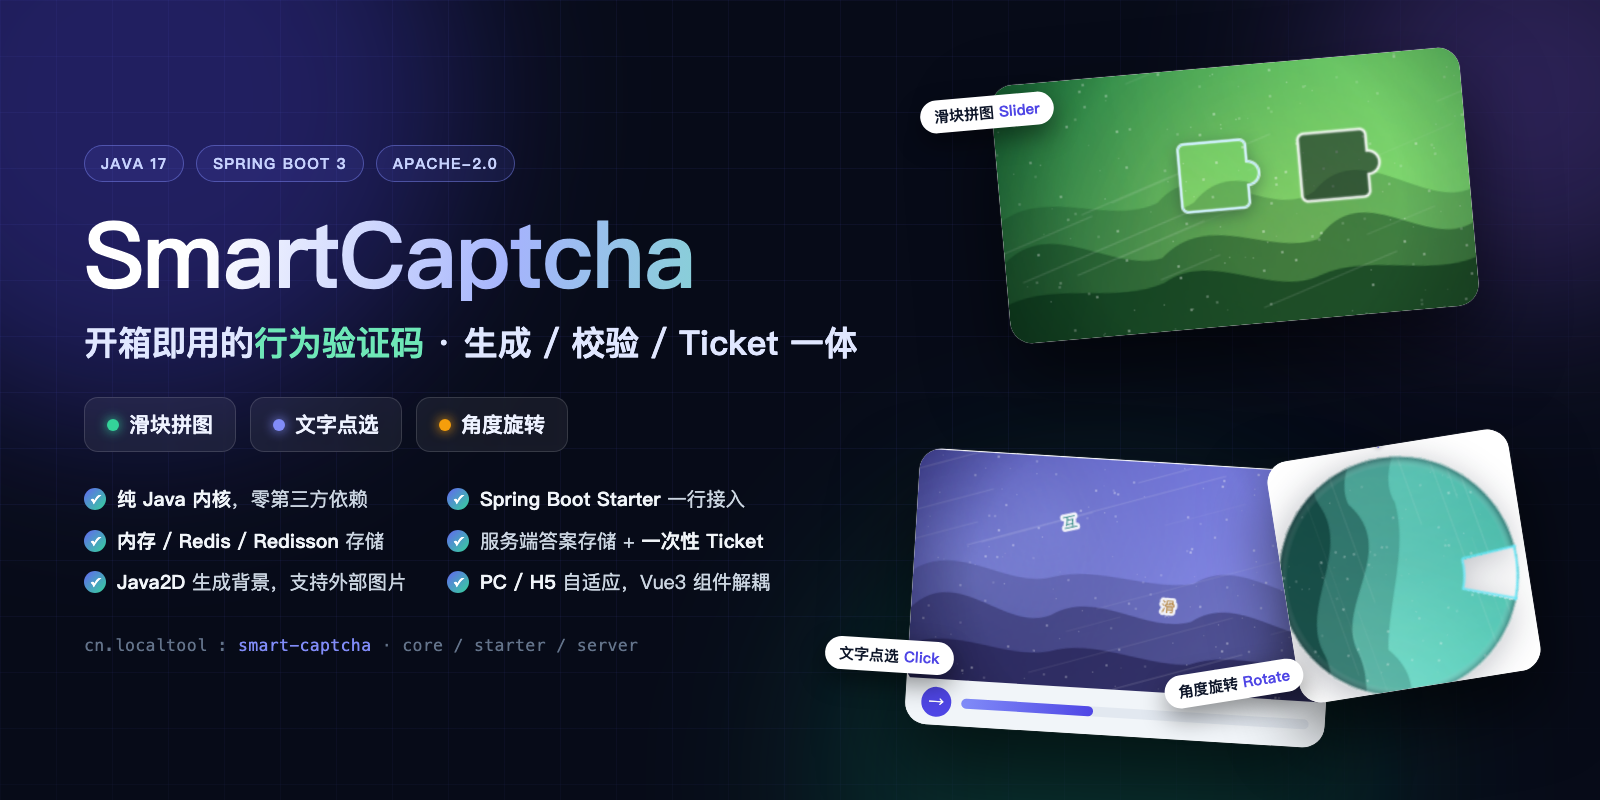
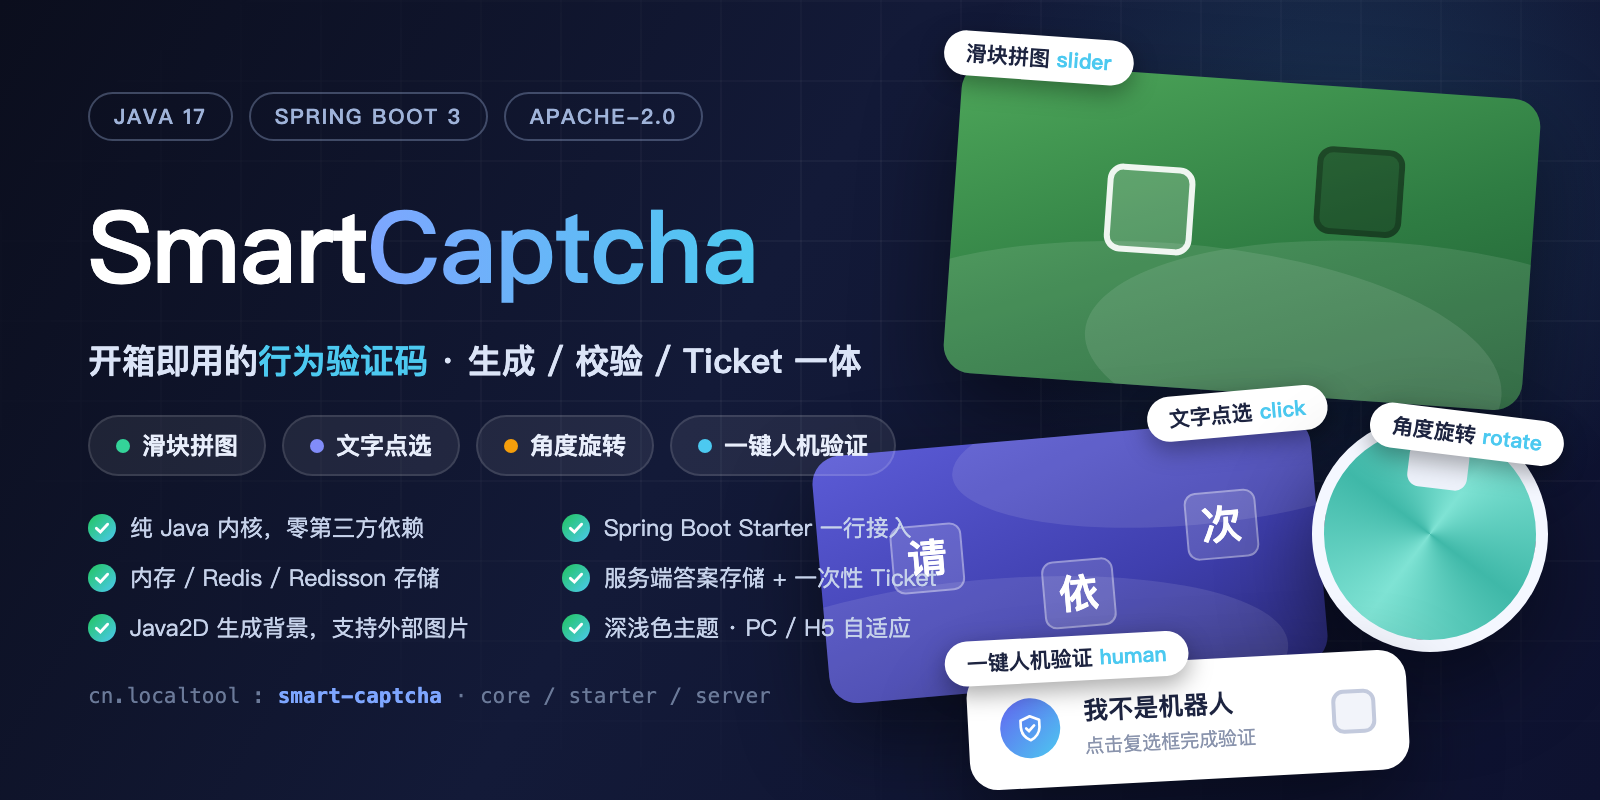
docs(readme): 更新文档以支持一键人机验证和深色主题
- 在英文和中文 README 中加入了一键人机验证（human check）类型描述和示例
- 增加了一键人机验证的图片示例和说明
- 新增深浅色主题支持说明和深色模式截图
- 更新示例部分，调整为四种验证码类型展示
- 升级版本号至 1.11.0，更新启动命令和依赖版本号
- 测试用例数量由137增加到139，增加一键人机验证相关测试
- 修正依赖安装说明，更新版本号至1.11.0并增强说明

diff --git a/README.md b/README.md
@@ -4,7 +4,7 @@
 
 [![License: Apache 2.0](https://img.shields.io/badge/license-Apache%202.0-blue.svg)](LICENSE)
 
-![SmartCaptcha — drop-in behavior captcha for Java (slider / click / rotate)](docs/images/banner-2x1-en.png)
+![SmartCaptcha — drop-in behavior captcha for Java (slider / click / rotate / human check)](docs/images/banner-2x1-en.png)
 
 A complete behavior-captcha implementation: **Vue 3 component** (slider puzzle / click-the-words / rotate-the-disc / one-click human check) plus a **three-module Java backend** that renders the images, checks the answers and issues one-time tickets.
 
@@ -27,19 +27,24 @@ The Vue component is **UI-only** — it never calls an API by itself. It asks th
 - **Configurable or random** — pin one type, or let the server (`type=auto`) or the component (`types` pool) pick randomly.
 - **Backgrounds, four ways** — server-side procedural art (zero assets), an external image array supplied by the page, or server-side sources: a folder, individual files, remote URLs or classpath resources.
 - **PC + mobile H5** — Pointer Events for mouse/touch parity, percentage-based layout, no fixed pixel math, responsive panel.
+- **Light / dark / auto theme** — `theme` follows the system color scheme by default or pins `light` / `dark`; every color is a `--bc-*` CSS variable, so brand theming is one override away.
 - **Server-side answers** — correct position/angle never leaves the backend; `id + token` pair, 3 attempts max, one-time ticket after success.
 - **Pluggable on both ends** — add a captcha type by implementing `CaptchaGenerator`, change the session storage by implementing `CaptchaStore` (six methods).
 
 ## Examples
 
-The three image widgets, captured live from the demo page (backgrounds are generated procedurally by the backend — no image assets needed):
+All four widget types, captured live from the demo page (image backgrounds are generated procedurally by the backend — no image assets needed):
 
-| Slider puzzle | Click the words | Rotate the disc |
-| :---: | :---: | :---: |
-| ![Slider puzzle captcha](docs/images/captcha-slider.png) | ![Click-the-words captcha](docs/images/captcha-click.png) | ![Rotate-the-disc captcha](docs/images/captcha-rotate.png) |
-| Drag the handle to align the piece with the gap | Click the three characters in the given order | Rotate the disc until the notch points at the marker |
+| Slider puzzle | Click the words |
+| :---: | :---: |
+| ![Slider puzzle captcha](docs/images/captcha-slider.png) | ![Click-the-words captcha](docs/images/captcha-click.png) |
+| Drag the handle to align the piece with the gap | Click the three characters in the given order |
+| ![Rotate-the-disc captcha](docs/images/captcha-rotate.png) | ![One-click human check](docs/images/captcha-human.png) |
+| Rotate the disc until the notch points at the marker | One click on the checkbox — the server separates humans from scripts with proof-of-work + randomized wait + interaction evidence (see [One-click human check](#one-click-human-check-human)) |
 
-The fourth type, **human** (one-click human check), has no image at all: the panel shows a single "I'm not a robot" checkbox and one click completes it. The server tells humans from scripts with a proof-of-work + minimum-duration + interaction-evidence check — see [One-click human check](#one-click-human-check-human) below.
+Dark mode, forced with `theme="dark"` (`auto` follows the system, `light` pins light):
+
+![Dark mode](docs/images/captcha-dark.png)
 
 ---
 
@@ -91,7 +96,7 @@ mvn clean install
 # run the server module → http://localhost:8088  (needs the install above, it resolves core/starter locally)
 mvn -pl smart-captcha-server spring-boot:run
 #   …or run the fat jar
-java -jar smart-captcha-server/target/smart-captcha-server-1.10.0.jar
+java -jar smart-captcha-server/target/smart-captcha-server-1.11.0.jar
 
 # frontend → http://localhost:5173  (vite proxies /api to 127.0.0.1:8088)
 cd vue3
@@ -162,7 +167,7 @@ The POMs written to the local repository are **flattened** by `flatten-maven-plu
 <dependency>
     <groupId>cn.localtool</groupId>
     <artifactId>smart-captcha-spring-boot-starter</artifactId>
-    <version>1.10.0</version>
+    <version>1.11.0</version>
 </dependency>
 ```
 
@@ -622,11 +627,11 @@ mvn -pl smart-captcha-core test   # engine only, no Spring context at all
 
 | Module | Cases | Covers |
 | --- | --- | --- |
-| core | 77 | four types (pass + fail), attempt lockout, ticket single-use, one-click human check: PoW verify / wrong nonce / missing proof / replay across challenges / minimum duration / missing duration / interaction evidence (incl. keyboard-only and touch) / trace-check toggle (18), click charset (zh / en), CJK pool of 2000 common characters, click distractors (`display-count`, 3), custom click font (Font object / font file by path & classpath / family, used as-is without validation, 14), `auto` type pool, `min-duration-ms`, custom generator override, memory-store contract (8), background sources: folder / file list / remote URL / classpath wildcard / reload / ratio / fallback (13) |
+| core | 79 | four types (pass + fail), attempt lockout, ticket single-use, one-click human check: PoW verify / wrong nonce / missing proof / replay across challenges / minimum duration / missing duration / interaction evidence (incl. keyboard-only and touch) / trace-check toggle (18), click charset (zh / en), CJK pool of 2000 common characters, click distractors (`display-count`, 3), custom click font (Font object / font file by path & classpath / family, used as-is without validation, 14), `auto` type pool, `min-duration-ms`, custom generator override, memory-store contract (8), background sources: folder / file list / remote URL / classpath wildcard / reload / ratio / fallback (13) |
 | starter | 47 | auto-configuration (default memory, unknown type fallback, four built-in types), store-type normalisation, `smart-captcha.background.*` + `click.font-family` / `click.font-path` binding + engine wiring (6), the same `CaptchaStore` contract on **redis** and **redisson** (8 each), engine-over-Redis flow (2), interceptor throwing `CaptchaTicketException` instead of writing a body (9), 403 mapping without any advice (2), interceptor switch: off by default / on by config (6) |
 | server | 13 | REST contract (config / generate / verify / error codes, four types advertised), 4 MockMvc cases for the guarded business endpoint (missing / bogus / replayed ticket, captcha API stays open) and 2 for the self-check endpoint |
 
-Total: 137 cases. The 18 Redis-backed cases **skip automatically** when no server is reachable; point them elsewhere with `-Dtest.redis.host=… -Dtest.redis.port=…` (or `REDIS_HOST` / `REDIS_PORT`).
+Total: 139 cases. The 18 Redis-backed cases **skip automatically** when no server is reachable; point them elsewhere with `-Dtest.redis.host=… -Dtest.redis.port=…` (or `REDIS_HOST` / `REDIS_PORT`).
 
 ---
 
@@ -634,8 +639,8 @@ Total: 137 cases. The 18 Redis-backed cases **skip automatically** when no serve
 
 | Symptom | Cause | Fix |
 | --- | --- | --- |
-| `Unresolved dependency: 'cn.localtool:smart-captcha-parent:jar:1.10.0'` in IntelliJ | the IDE picked up a POM installed **before** the POMs were flattened, or its local repository differs from the one the CLI installs into | `mvn clean install` at the repo root, then *Reload All Maven Projects*; verify IDEA → *Settings → Build Tools → Maven → Local repository* and install into exactly that path: `mvn -Dmaven.repo.local=<that path> install` |
-| `Dependency 'cn.localtool:smart-captcha-spring-boot-starter:1.10.0' not found` | never installed, or installed into another local repository | same as above; also make sure you did not run `mvn install -pl smart-captcha-spring-boot-starter` without `-am` |
+| `Unresolved dependency: 'cn.localtool:smart-captcha-parent:jar:1.11.0'` in IntelliJ | the IDE picked up a POM installed **before** the POMs were flattened, or its local repository differs from the one the CLI installs into | `mvn clean install` at the repo root, then *Reload All Maven Projects*; verify IDEA → *Settings → Build Tools → Maven → Local repository* and install into exactly that path: `mvn -Dmaven.repo.local=<that path> install` |
+| `Dependency 'cn.localtool:smart-captcha-spring-boot-starter:1.11.0' not found` | never installed, or installed into another local repository | same as above; also make sure you did not run `mvn install -pl smart-captcha-spring-boot-starter` without `-am` |
 | `NoClassDefFoundError: …CaptchaInterceptor` / Redis store missing | `spring-boot-starter-web`, `spring-boot-starter-data-redis` and `redisson` are **optional** dependencies of the starter | add the ones you actually use to your own project |
 
 ---

diff --git a/README.zh-CN.md b/README.zh-CN.md
@@ -4,9 +4,9 @@
 
 [![License: Apache 2.0](https://img.shields.io/badge/license-Apache%202.0-blue.svg)](LICENSE)
 
-![SmartCaptcha 行为验证码（滑块拼图 / 文字点选 / 角度旋转）](docs/images/banner-2x1-zh.png)
+![SmartCaptcha 行为验证码（滑块拼图 / 文字点选 / 角度旋转 / 一键人机验证）](docs/images/banner-2x1-zh.png)
 
-一套完整的行为验证码实现：**Vue 3 组件**（滑块拼图 / 文字点选 / 角度旋转）+ **三模块 Java 后端**（生成图片、校验答案、签发一次性 ticket）。
+一套完整的行为验证码实现：**Vue 3 组件**（滑块拼图 / 文字点选 / 角度旋转 / 一键人机验证）+ **三模块 Java 后端**（生成图片、校验答案、签发一次性 ticket）。
 
 后端拆成三个模块，用什么引什么：
 
@@ -27,20 +27,24 @@
 - **可固定可随机**：固定一种，或由服务端（`type=auto`）随机，或由组件按 `types` 池随机。
 - **背景图四种来源**：服务端程序化生成（零素材）、页面传入的外部图片数组，以及服务端任意混合配置——目录 / 单个文件 / 远程 URL / classpath 资源。
 - **PC + 手机 H5**：Pointer Events 统一鼠标与触屏，百分比定位，面板宽度自适应，无需 resize 监听。
+- **深浅色主题**：`theme` 支持 `auto`（跟随系统）/ `light` / `dark`，配色全部由 `--bc-*` CSS 变量驱动，业务方覆盖变量即可做品牌定制。
 - **答案只在服务端**：`id + token` 双凭证、默认 3 次尝试、通过后签发一次性 ticket。
 - **两端都可插拔**：实现 `CaptchaGenerator` 换生成逻辑，实现 `CaptchaStore`（6 个方法）换会话存储。
 
 ## 示例
 
-三种验证方式的实际界面，截取自演示页（背景由后端程序化生成，无需任何素材）：
+四种验证方式的实际界面，截取自演示页（图片背景由后端程序化生成，无需任何素材）：
 
-| 滑块拼图 | 文字点选 | 角度旋转 |
-| :---: | :---: | :---: |
-| ![滑块拼图验证码](docs/images/captcha-slider.png) | ![文字点选验证码](docs/images/captcha-click.png) | ![角度旋转验证码](docs/images/captcha-rotate.png) |
-| 拖动滑块，把拼图块对准缺口 | 按提示顺序依次点击三个汉字 | 旋转圆盘，让缺口对准上方标记 |
+| 滑块拼图 | 文字点选 |
+| :---: | :---: |
+| ![滑块拼图验证码](docs/images/captcha-slider.png) | ![文字点选验证码](docs/images/captcha-click.png) |
+| 拖动滑块，把拼图块对准缺口 | 按提示顺序依次点击三个汉字 |
+| ![角度旋转验证码](docs/images/captcha-rotate.png) | ![一键人机验证](docs/images/captcha-human.png) |
+| 旋转圆盘，让缺口对准上方标记 | 点一下复选框即完成——服务端靠工作量证明 + 随机等待 + 交互痕迹区分人与脚本（详见[一键人机验证](#一键人机验证human)） |
 
-第四种 **一键人机验证**（`human`）没有图：面板里就是一个"我不是机器人"复选框，用户点一下即完成，
-摩擦最小；服务端靠工作量证明 + 最短耗时 + 交互痕迹来区分人与脚本，详见下文[一键人机验证](#一键人机验证human)。
+深色模式效果（`theme="dark"` 强制；`auto` 跟随系统，`light` 固定浅色）：
+
+![深色模式](docs/images/captcha-dark.png)
 
 ---
 
@@ -90,7 +94,7 @@ mvn clean install
 # 启动服务模块 → http://localhost:8088（依赖上面的 install，core/starter 从本地仓库解析）
 mvn -pl smart-captcha-server spring-boot:run
 #   或者直接跑 fat jar
-java -jar smart-captcha-server/target/smart-captcha-server-1.10.0.jar
+java -jar smart-captcha-server/target/smart-captcha-server-1.11.0.jar
 
 # 前端 → http://localhost:5173（vite 已代理 /api 到 127.0.0.1:8088）
 cd vue3
@@ -161,7 +165,7 @@ mvn clean install
 <dependency>
     <groupId>cn.localtool</groupId>
     <artifactId>smart-captcha-spring-boot-starter</artifactId>
-    <version>1.10.0</version>
+    <version>1.11.0</version>
 </dependency>
 ```
 
@@ -631,11 +635,11 @@ mvn -pl smart-captcha-core test   # 只跑内核，完全不起 Spring 容器
 
 | 模块 | 用例数 | 覆盖内容 |
 | --- | --- | --- |
-| core | 77 | 四种方式的通过/失败、次数锁定、ticket 一次性、一键人机验证（PoW 验算 / 错误 nonce / 缺证明 / 跨题重放 / 最短耗时 / 缺 duration / 交互痕迹含纯键盘与触摸 / 轨迹校验开关，18 例）、点选字符集（zh / en）、中文池 2000 常用字、点选干扰项（`display-count`，3 例）、自定义点选字体（Font 对象 / 字体文件路径与 classpath / 字体族，设置即用不校验，14 例）、`auto` 随机池、`min-duration-ms`、自定义生成器覆盖、内存存储契约（8 例）、背景图来源：目录 / 多文件 / 远程 URL / classpath 通配 / 重载 / 概率 / 失败降级（13 例） |
+| core | 79 | 四种方式的通过/失败、次数锁定、ticket 一次性、一键人机验证（PoW 验算 / 错误 nonce / 缺证明 / 跨题重放 / 最短耗时 / 缺 duration / 交互痕迹含纯键盘与触摸 / 轨迹校验开关，18 例）、点选字符集（zh / en）、中文池 2000 常用字、点选干扰项（`display-count`，3 例）、自定义点选字体（Font 对象 / 字体文件路径与 classpath / 字体族，设置即用不校验，14 例）、`auto` 随机池、`min-duration-ms`、自定义生成器覆盖、内存存储契约（8 例）、背景图来源：目录 / 多文件 / 远程 URL / classpath 通配 / 重载 / 概率 / 失败降级（13 例） |
 | starter | 47 | 自动装配（默认内存、未知类型回退、四种内置方式）、存储类型归一化、`smart-captcha.background.*` + `click.font-family` / `click.font-path` 绑定与引擎装配（6 例）、同一套 `CaptchaStore` 契约在 **redis** 与 **redisson** 上各 8 例、引擎跑在 Redis 上的完整链路（2 例）、拦截器改为抛 `CaptchaTicketException`（9 例）、无 advice 时仍返回 403（2 例）、拦截器开关：默认关闭 / 配置开启（6 例） |
 | server | 13 | REST 契约（config / generate / verify / 各种错误码，公告四种方式）+ 4 个受保护业务接口的 MockMvc 用例（缺 ticket / 假 ticket / 重放 / 验证码接口本身不被拦）+ 2 个业务自校验用例 |
 
-合计 137 个用例。其中 18 个依赖 Redis 的用例在连不上 Redis 时**自动跳过**；换地址用 `-Dtest.redis.host=… -Dtest.redis.port=…`（或环境变量 `REDIS_HOST` / `REDIS_PORT`）。
+合计 139 个用例。其中 18 个依赖 Redis 的用例在连不上 Redis 时**自动跳过**；换地址用 `-Dtest.redis.host=… -Dtest.redis.port=…`（或环境变量 `REDIS_HOST` / `REDIS_PORT`）。
 
 ---
 
@@ -643,8 +647,8 @@ mvn -pl smart-captcha-core test   # 只跑内核，完全不起 Spring 容器
 
 | 现象 | 原因 | 处理 |
 | --- | --- | --- |
-| IDEA 报 `Unresolved dependency: 'cn.localtool:smart-captcha-parent:jar:1.10.0'` | IDE 读到的是扁平化之前安装的 POM，或 IDE 使用的本地仓库与命令行安装的仓库不是同一个 | 在仓库根目录重新 `mvn clean install`，然后 IDEA 里 *Reload All Maven Projects*；核对 *Settings → Build Tools → Maven → Local repository*，用 `mvn -Dmaven.repo.local=<该路径> install` 装到同一个仓库 |
-| 报 `Dependency 'cn.localtool:smart-captcha-spring-boot-starter:1.10.0' not found` | 从未安装，或装到了另一个本地仓库 | 同上；并确认没有只执行 `mvn install -pl smart-captcha-spring-boot-starter`（缺父 POM 时加 `-am`） |
+| IDEA 报 `Unresolved dependency: 'cn.localtool:smart-captcha-parent:jar:1.11.0'` | IDE 读到的是扁平化之前安装的 POM，或 IDE 使用的本地仓库与命令行安装的仓库不是同一个 | 在仓库根目录重新 `mvn clean install`，然后 IDEA 里 *Reload All Maven Projects*；核对 *Settings → Build Tools → Maven → Local repository*，用 `mvn -Dmaven.repo.local=<该路径> install` 装到同一个仓库 |
+| 报 `Dependency 'cn.localtool:smart-captcha-spring-boot-starter:1.11.0' not found` | 从未安装，或装到了另一个本地仓库 | 同上；并确认没有只执行 `mvn install -pl smart-captcha-spring-boot-starter`（缺父 POM 时加 `-am`） |
 | 启动报 `NoClassDefFoundError: …CaptchaInterceptor`，或 Redis 存储不生效 | web、Spring Data Redis、Redisson 在 starter 里是 **optional** 依赖 | 在业务项目里显式引入实际用到的那几个 |
 
 ---
